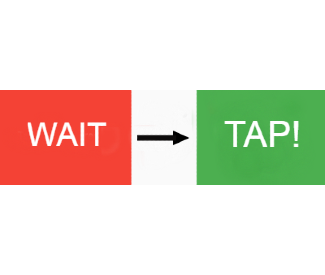
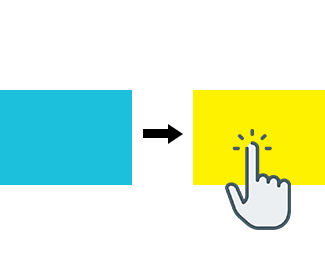
Chenged ReactionTime activity to use blue and yellow for color blind participants to be able to do it.

Changed region(s): [[0.0, 0.32, 1.0, 0.8436]]

diff --git a/lib/src/ui/ActivityBody/rpui_reaction_time_activity_body.dart b/lib/src/ui/ActivityBody/rpui_reaction_time_activity_body.dart
@@ -121,7 +121,7 @@ class RPUIReactionTimeActivityBodyState
               padding: const EdgeInsets.all(20),
               child: Text(
                 locale?.translate('reaction_time.tap_screen_green') ??
-                    "Tap the screen as fast as possible when it turns from red to green.",
+                    "Tap the screen as fast as possible when it turns from blue to yellow.",
                 style: const TextStyle(fontSize: 20),
                 overflow: TextOverflow.ellipsis,
                 maxLines: 5,
@@ -198,7 +198,7 @@ class RPUIReactionTimeActivityBodyState
                           allowGreen = false;
                           wrongTaps++;
                           widget.eventLogger.addWrongGesture('Wrong Screen Tap',
-                              'Tapped the screen before the screen was green');
+                              'Tapped the screen before the screen was yellow');
                           setState(() {
                             alert =
                                 locale?.translate('reaction_time.too_quick') ??
@@ -216,7 +216,7 @@ class RPUIReactionTimeActivityBodyState
                         }
                       },
                       child: Container(
-                          color: lightOn ? Colors.green : Colors.red,
+                          color: lightOn ? Colors.yellow : Colors.blue,
                           alignment: Alignment.center,
                           child: Column(
                             mainAxisAlignment: MainAxisAlignment.center,
